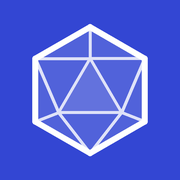
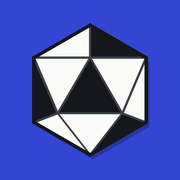
Add files via upload

diff --git a/index.html b/index.html
@@ -55,7 +55,7 @@ h1,h2,h3{font-family:var(--f-ui);margin:0;text-wrap:balance;letter-spacing:-.015
 .mark{font-weight:600;font-size:22px;letter-spacing:-.02em;display:flex;align-items:center;gap:8px}
 .mark b{color:var(--accent);font-weight:600}
 .mark svg{width:22px;height:22px;flex:none}
-.mark svg *{fill:none;stroke:var(--accent);stroke-width:5;stroke-linejoin:round}
+.mark svg{width:24px;height:24px}
 .top .meta{display:flex;align-items:center;gap:8px;flex-wrap:wrap;justify-content:flex-end}
 .langs{display:inline-flex;border:1px solid var(--rule-2);border-radius:7px;overflow:hidden}
 .langs button{background:transparent;border:0;color:var(--ink-3);font-size:12px;font-weight:600;padding:5px 9px;letter-spacing:.03em}
@@ -81,10 +81,13 @@ h1,h2,h3{font-family:var(--f-ui);margin:0;text-wrap:balance;letter-spacing:-.015
 .abil{display:grid;grid-template-columns:repeat(8,1fr);margin-top:18px;border-top:1px solid var(--rule);border-left:1px solid var(--rule)}
 @media (max-width:620px){.abil{grid-template-columns:repeat(4,1fr)}}
 .ab-cell{border-right:1px solid var(--rule);border-bottom:1px solid var(--rule);padding:10px 4px;text-align:center;display:flex;flex-direction:column;align-items:center;gap:2px;position:relative;min-width:0}
-.ab-cell .lbl{font-size:10px;letter-spacing:.05em;max-width:100%;overflow:hidden;text-overflow:ellipsis;white-space:nowrap}
+.ab-cell .lbl{font-size:9.5px;letter-spacing:.01em;max-width:100%;line-height:1.25;white-space:nowrap}
+@media (max-width:420px){.ab-cell .lbl,.pickbtn .lbl{font-size:8.5px;letter-spacing:0}}
+.lshort{display:none}
+@media (max-width:360px){.lfull{display:none}.lshort{display:inline}}
 .ab-v{font-family:var(--f-num);font-weight:500;font-size:24px;line-height:1.1}
 .ab-m{font-family:var(--f-num);font-size:11px;color:var(--ink-3)}
-.gain,.loss{position:absolute;top:6px;right:6px;font-family:var(--f-num);font-size:10.5px;font-weight:600}
+.gain,.loss{font-family:var(--f-num);font-size:11px;font-weight:600;vertical-align:super;margin-left:2px;line-height:0}
 .gain{color:var(--good)} .loss{color:var(--bad)}
 /* fan support */
 .fanbar{margin-top:16px;display:flex;flex-direction:column;gap:6px}
@@ -163,6 +166,13 @@ input[type=text]{flex:1 1 200px;min-width:0;max-width:340px}
 .evbox{border:1px solid var(--rule);border-radius:8px;padding:10px 12px;display:flex;flex-direction:column;gap:3px;background:var(--sunk)}
 .evbox.ok{border-color:var(--good)} .evbox.bad{border-color:var(--bad)}
 .fx{font-size:13px;font-weight:600}
+.picks{display:grid;grid-template-columns:repeat(4,minmax(0,1fr));gap:6px;margin-top:6px}
+.pickbtn{min-width:0;display:flex;flex-direction:column;align-items:center;gap:2px;padding:7px 4px;border:1px solid var(--rule-2);border-radius:8px;background:var(--card);color:var(--ink);font:inherit}
+.pickbtn:hover:not(:disabled){border-color:var(--good)}
+.pickbtn:disabled{opacity:.4;cursor:default}
+.pickbtn .lbl{font-size:9.5px;letter-spacing:.01em;white-space:nowrap;text-align:center}
+.pickbtn b{font-family:var(--f-num);font-weight:500;font-size:12.5px;white-space:nowrap}
+.offer select{width:100%;font-size:15px}
 .fx.up{color:var(--good)} .fx.down{color:var(--bad)} .fx.flat{color:var(--ink-3)}
 .result{animation:reveal .45s ease-out both}
 @keyframes reveal{from{opacity:0;transform:translateY(3px)}to{opacity:1;transform:none}}
@@ -348,19 +358,19 @@ const myPos=()=>S.pos||bestPos(S.attrs);
 function focusKey(){const w=POS[myPos()].w;const top=AK.slice().sort((x,y)=>(w[y]||0)-(w[x]||0)).slice(0,3);return Math.random()<.6?pick(top):pick(AK)}
 /* moments: roll the die + floor(attribute/5) against the target, before the match. The result shapes that match's d20. */
 const EVENTS=[
- {id:'pen',die:10,at:['fin','dec'],tgt:9,ok:{mode:'adv'},bad:{mode:'dis'}},
- {id:'fk',die:12,at:['ski','fin'],tgt:11,ok:{buff:2},bad:{}},
- {id:'oneone',die:8,at:['fin','spd'],tgt:8,ok:{mode:'adv'},bad:{buff:-2}},
- {id:'tackle',die:8,at:['def','spd'],tgt:8,ok:{mode:'adv'},bad:{mode:'dis'}},
- {id:'through',die:10,at:['pas','dec'],tgt:9,ok:{buff:2},bad:{}},
- {id:'counter',die:8,at:['spd','pas'],tgt:8,ok:{buff:2},bad:{buff:-1}},
- {id:'header',die:10,at:['str','fin'],tgt:9,ok:{buff:2},bad:{buff:-2}},
- {id:'derby',die:12,at:['ski','lead'],tgt:11,ok:{mode:'adv'},bad:{mode:'dis'},league:true},
- {id:'training',die:4,at:['str','dec'],tgt:5,ok:{buff:1,grow:1},bad:{}},
- {id:'press',die:8,at:['lead','dec'],tgt:7,ok:{buff:1},bad:{mode:'dis'}},
- {id:'scout',die:8,at:['ski','dec'],tgt:7,ok:{scout:1},bad:{}},
- {id:'night',die:4,at:['dec','lead'],tgt:4,ok:{},bad:{mode:'dis'}},
- {id:'crisis',die:10,at:['lead','dec'],tgt:9,ok:{mode:'adv'},bad:{mode:'dis'}}
+ {id:'pen',die:20,at:['fin','dec'],tgt:11,ok:{mode:'adv'},bad:{mode:'dis'}},
+ {id:'fk',die:20,at:['ski','fin'],tgt:12,ok:{buff:2},bad:{}},
+ {id:'oneone',die:12,at:['fin','spd'],tgt:8,ok:{mode:'adv'},bad:{buff:-2}},
+ {id:'tackle',die:12,at:['def','spd'],tgt:8,ok:{mode:'adv'},bad:{mode:'dis'}},
+ {id:'through',die:10,at:['pas','dec'],tgt:7,ok:{buff:2},bad:{}},
+ {id:'counter',die:10,at:['spd','pas'],tgt:7,ok:{buff:2},bad:{buff:-1}},
+ {id:'header',die:10,at:['str','fin'],tgt:7,ok:{buff:2},bad:{buff:-2}},
+ {id:'derby',die:20,at:['ski','lead'],tgt:12,ok:{mode:'adv'},bad:{mode:'dis'},league:true},
+ {id:'training',die:8,at:['str','dec'],tgt:5,ok:{buff:1,grow:1},bad:{}},
+ {id:'press',die:8,at:['lead','dec'],tgt:6,ok:{buff:1},bad:{mode:'dis'}},
+ {id:'scout',die:12,at:['ski','dec'],tgt:8,ok:{scout:1},bad:{}},
+ {id:'night',die:4,at:['dec','lead'],tgt:3,ok:{},bad:{mode:'dis'}},
+ {id:'crisis',die:12,at:['lead','dec'],tgt:8,ok:{mode:'adv'},bad:{mode:'dis'}}
 ];
 const evB=e=>[Math.floor(S.attrs[e.at[0]]/5),Math.floor(S.attrs[e.at[1]]/10)];
 const evBonus=e=>evB(e)[0]+evB(e)[1];
@@ -375,7 +385,7 @@ en:{
  tag:'A football career in dice',seasonAge:(y,a)=>`Season ${y} · age ${a}`,retired:'Retired',newCareer:'New career',wipe:'Tap again to wipe',
  themeDark:'Dark',themeLight:'Light',installIOS:'Install: tap Share, then Add to Home Screen',installBtn:'Install app',
  tabGame:'Career',tabHof:n=>`Hall of Fame${n?` (${n})`:''}`,
- attrs:{spd:'Speed',fin:'Finishing',ski:'Skills',pas:'Passing',def:'Defending',str:'Physical',dec:'Decisions',lead:'Leadership'},
+ attrs:{spd:'Speed',fin:'Finishing',ski:'Skills',pas:'Passing',def:'Defending',str:'Physical',dec:'Decisions',lead:'Leadership'},attrsS:{spd:'Speed',fin:'Finish.',ski:'Skills',pas:'Passing',def:'Defend.',str:'Physical',dec:'Decis.',lead:'Leader.'},
  unnamed:'Unnamed player',yrs:a=>`${a} yrs`,injured:n=>`Injured · out ${n} match${n>1?'es':''}`,fit:'Fit',rating:'Rating',of20:m=>`of 20 · mod ${m}`,
  div2:'2nd division',
  newRoll:'New career · 8d10',rollPlayer:'Roll your player',pname:'Player name',nat:'Nationality',randName:'Random name',
@@ -388,8 +398,8 @@ en:{
  rollHint:'Tap a die to roll one stat at a time, or roll them all at once.',rerollHint:'One reroll left: tap a single die, or reroll all six.',
  bench:'You’re in the treatment room. The team plays this one without you, rolling d20 + team bonus + 2.',
  chPlayer:'Player',chClub:'Club',chNation:'National team',chFocus:'Focus',dc:'DC',roll:d=>`Roll d${d}`,rollAdv:'Roll 2d20 · keep best',rollDis:'Roll 2d20 · keep worst',sim:'Sim',squad:'squad',
- crit:a=>`Natural 20. +1 ${a} at season’s end.`,nat1:'Natural 1. You’re injured.',
- perfect:(d,a)=>`Perfect ${d}!${a?` +1 ${a} at season’s end.`:''}`,
+ crit:a=>`Natural 20! +1 ${a}.`,critPick:'Natural 20! Pick an attribute to improve right now.',nat1:'Natural 1. You’re injured.',
+ perfect:(d,a)=>`Perfect ${d}! +1 ${a}.`,
  heal:(h,m,lost)=>`Recovery d10 <b class="num">${h}</b>: ${m===0?'shake it off, fit for the next match':`out for ${m} match${m>1?'es':''}`}${lost?'. A bad one: −1 Speed for good':''}.`,
  didnt:'Didn’t play.',line:(ap,g,a)=>`${ap} app${ap===1?'':'s'} · ${g} goal${g===1?'':'s'} · ${a} assist${a===1?'':'s'}`,
  rollHeal:'Roll d10 to heal',recovery:'Recovery',
@@ -405,14 +415,15 @@ en:{
  fx:{adv:'Advantage: 2d20, keep the best',dis:'Disadvantage: 2d20, keep the worst',buff:n=>`${sg(n)} on this match`,none:'No effect on this match'},
  won:'Won',out:'Out',inj:'Inj',upNext:'Up next',through:'Through',
  season:y=>`Season ${y}`,gaApps:(g,a,ap)=>`${g} G · ${a} A · ${ap} apps`,
- review:(y,c)=>`${y} season review · ${c}`,finished:(p,l)=>`Finished ${ord(p)} · ${l}`,
+ review:(y,c)=>`${y} season review · ${c}`,finished:p=>`Finished ${ord(p)}`,
  promoted:l=>`Promoted! Your club goes up to the ${l}.`,relegated:l=>`Relegated. Your club drops to the ${l}.`,
  apps:'Apps',goals:'Goals',assists:'Assists',avgd20:'Avg d20',seasons:'Seasons',trophies:'Trophies',wcs:'World Cups',
  devLead:'Development: ',devBase:['+1 to every attribute for age','no age growth','−1 to every attribute for age','+4 spread across attributes for age'],devSpd:', −1 Speed',
  devBonus:n=>`, plus ${n} bonus point${n>1?'s':''} for your rolls`,devCrit:n=>`, plus ${n} from perfect rolls`,devTrain:n=>`, plus ${n} from extra training`,
  devHot:', and a hot season kept the decline away',devCap:'. Past 33, rolls no longer add growth',devEnd:'. Changes show on the sheet above.',
  window:'Transfer window',eor:'End of the road',nextAge:a=>`Next: age ${a}`,hangUp:'You’re 36. Time to hang up the boots.',sign:'Sign',noOffers:'No offers this window.',
- stay:c=>`Stay at ${c}`,retire:'Retire',scouted:'Scouts watched you this season',
+ stay:c=>`Stay at ${c}`,retire:'Retire',retireSure:'Tap again to confirm retirement',
+ finalT:'Final chapter',homeT:'Back where it started',homeDesc:c=>`Return to ${c} for the last years of your career.`,homeBtn:'Go home',anyT:'Pick your last club',anyDesc:'Your career earned it: any club in the world will take you.',anyBtn:'Sign',nHome:c=>`Back home at ${c}. The fans never forgot you.`,nAny:c=>`A final chapter at ${c}.`,scouted:'Scouts watched you this season',
  over:(a,b)=>`Career over · ${a}–${b}`,peak:p=>`Peak rating ${p}.`,enshrined:'Added to the Hall of Fame.',
  career:'Career',th:['Year','Age','Club','League','Pos','Apps','G','A','Rtg','Trophies','World Cup'],
  wc:'World Cup',calledUp:n=>`Called up by ${n} for the World Cup!`,leftOut:(n,need)=>`Left out of the ${n} World Cup squad. The bar was a ${need} rating.`,
@@ -462,7 +473,7 @@ pt:{
  tag:'Uma carreira no futebol, nos dados',seasonAge:(y,a)=>`Temporada ${y} · ${a} anos`,retired:'Aposentado',newCareer:'Nova carreira',wipe:'Toque de novo para apagar',
  themeDark:'Escuro',themeLight:'Claro',installIOS:'Instalar: toque em Compartilhar e depois em Adicionar à Tela de Início',installBtn:'Instalar app',
  tabGame:'Carreira',tabHof:n=>`Hall da Fama${n?` (${n})`:''}`,
- attrs:{spd:'Velocidade',fin:'Finalização',ski:'Habilidade',pas:'Passe',def:'Defesa',str:'Físico',dec:'Decisões',lead:'Liderança'},
+ attrs:{spd:'Velocidade',fin:'Finalização',ski:'Habilidade',pas:'Passe',def:'Defesa',str:'Físico',dec:'Decisões',lead:'Liderança'},attrsS:{spd:'Veloc.',fin:'Final.',ski:'Habil.',pas:'Passe',def:'Defesa',str:'Físico',dec:'Decisões',lead:'Lider.'},
  unnamed:'Jogador sem nome',yrs:a=>`${a} anos`,injured:n=>`Lesionado · fora por ${n} jogo${n>1?'s':''}`,fit:'Apto',rating:'Nível',of20:m=>`de 20 · mod ${m}`,
  div2:'2ª divisão',
  newRoll:'Nova carreira · 8d10',rollPlayer:'Crie seu jogador',pname:'Nome do jogador',nat:'Nacionalidade',randName:'Nome aleatório',
@@ -475,8 +486,8 @@ pt:{
  rollHint:'Toque em um dado para rolar um atributo por vez, ou role todos de uma vez.',rerollHint:'Resta uma nova rolagem: toque em um dado ou role os seis de novo.',
  bench:'Você está no departamento médico. O time joga sem você, rolando d20 + bônus do time + 2.',
  chPlayer:'Jogador',chClub:'Clube',chNation:'Seleção',chFocus:'Foco',dc:'CD',roll:d=>`Rolar d${d}`,rollAdv:'Rolar 2d20 · fica o maior',rollDis:'Rolar 2d20 · fica o menor',sim:'Simular',squad:'elenco',
- crit:a=>`20 natural! +1 de ${a} no fim da temporada.`,nat1:'1 natural. Você se lesionou.',
- perfect:(d,a)=>`${d} perfeito!${a?` +1 de ${a} no fim da temporada.`:''}`,
+ crit:a=>`20 natural! +1 de ${a}.`,critPick:'20 natural! Escolha um atributo para melhorar agora.',nat1:'1 natural. Você se lesionou.',
+ perfect:(d,a)=>`${d} perfeito! +1 de ${a}.`,
  heal:(h,m,lost)=>`Recuperação d10 <b class="num">${h}</b>: ${m===0?'nada grave, apto para o próximo jogo':`fora por ${m} jogo${m>1?'s':''}`}${lost?'. Lesão séria: −1 de Velocidade para sempre':''}.`,
  didnt:'Não jogou.',line:(ap,g,a)=>`${ap} jogo${ap===1?'':'s'} · ${g} gol${g===1?'':'s'} · ${a} assistência${a===1?'':'s'}`,
  rollHeal:'Rolar d10 para se recuperar',recovery:'Recuperação',
@@ -492,14 +503,15 @@ pt:{
  fx:{adv:'Vantagem: 2d20, fica o maior',dis:'Desvantagem: 2d20, fica o menor',buff:n=>`${sg(n)} neste jogo`,none:'Sem efeito neste jogo'},
  won:'Campeão',out:'Fora',inj:'Les',upNext:'Próxima',through:'Avançou',
  season:y=>`Temporada ${y}`,gaApps:(g,a,ap)=>`${g} G · ${a} A · ${ap} jogos`,
- review:(y,c)=>`Balanço de ${y} · ${c}`,finished:(p,l)=>`${p}º lugar · ${l}`,
+ review:(y,c)=>`Balanço de ${y} · ${c}`,finished:p=>`${p}º lugar`,
  promoted:l=>`Acesso! Seu clube sobe para: ${l}.`,relegated:l=>`Rebaixado. Seu clube cai para: ${l}.`,
  apps:'Jogos',goals:'Gols',assists:'Assist.',avgd20:'Média d20',seasons:'Temporadas',trophies:'Títulos',wcs:'Copas',
  devLead:'Evolução: ',devBase:['+1 em todos os atributos pela idade','sem evolução pela idade','−1 em todos os atributos pela idade','+4 espalhados pelos atributos pela idade'],devSpd:', −1 de Velocidade',
  devBonus:n=>`, mais ${n} ponto${n>1?'s':''} bônus pelas rolagens`,devCrit:n=>`, mais ${n} por rolagens perfeitas`,devTrain:n=>`, mais ${n} do treino extra`,
  devHot:', e a fase iluminada segurou o declínio',devCap:'. Depois dos 33, as rolagens não trazem mais evolução',devEnd:'. As mudanças aparecem na ficha acima.',
  window:'Janela de transferências',eor:'Fim da linha',nextAge:a=>`Próx.: ${a} anos`,hangUp:'Você tem 36 anos. Hora de pendurar as chuteiras.',sign:'Assinar',noOffers:'Nenhuma proposta nesta janela.',
- stay:c=>`Ficar · ${c}`,retire:'Aposentar',scouted:'Olheiros te observaram nesta temporada',
+ stay:c=>`Ficar · ${c}`,retire:'Aposentar',retireSure:'Toque de novo para confirmar a aposentadoria',
+ finalT:'Último capítulo',homeT:'De volta às origens',homeDesc:c=>`Voltar para ${c} nos últimos anos da carreira.`,homeBtn:'Voltar para casa',anyT:'Escolha seu último clube',anyDesc:'Sua carreira permite: qualquer clube do mundo te recebe.',anyBtn:'Assinar',nHome:c=>`De volta para casa: ${c}. A torcida nunca te esqueceu.`,nAny:c=>`Último capítulo: ${c}.`,scouted:'Olheiros te observaram nesta temporada',
  over:(a,b)=>`Fim de carreira · ${a}–${b}`,peak:p=>`Nível máximo ${p}.`,enshrined:'Adicionado ao Hall da Fama.',
  career:'Carreira',th:['Ano','Idade','Clube','Liga','Pos','J','G','A','Nív','Títulos','Copa'],
  wc:'Copa do Mundo',calledUp:n=>`Convocado para a Copa do Mundo! (${n})`,leftOut:(n,need)=>`Fora da convocação para a Copa (${n}). Precisava de nível ${need}.`,
@@ -697,7 +709,7 @@ function resolveEvent(v){
   const bonus=evBonus(e), tgt=evTarget(e), total=v+bonus;
   const perfect=v===e.die, ok=perfect||(v!==1&&total>=tgt);
   let fx={...(ok?e.ok:e.bad)};
-  if(perfect){fx.mode='adv';s.crit.push(e.at[0]);if(st.ev==='training')s.train++}
+  if(perfect){fx.mode='adv';if(S.age<=33)S.attrs[e.at[0]]=Math.min(20,S.attrs[e.at[0]]+1);if(st.ev==='training')s.train++}
   if(fx.grow)s.train+=fx.grow; if(fx.scout)s.scout=1;
   st.evr={nat:v,bonus,tgt,total,ok,perfect}; st.fx={mode:fx.mode||null,buff:fx.buff||0};
 }
@@ -713,7 +725,7 @@ function resolveStage(v1,v2){
     r.raw=r.pm+cm+r.kb+r.buff+r.loy; r.mods=capMods(r.raw); r.hot=s.hot>0?2:0; if(s.hot>0)s.hot--;
     r.total=nat+r.mods+r.hot;
     s.rolls.push(nat);
-    if(nat===20){r.crit=true;s.crit.push(st.key);s.hot=2}
+    if(nat===20){r.crit=true;s.hot=2;if(S.age<=33&&AK.some(k=>S.attrs[k]<20))s.pickAttr=true}
     if(nat===1){r.injury=true;s.injuries++;s.pendingHeal=true;s.inj={d4:null,d10:null}}
   }
   r.dc=dcFor(st);
@@ -736,6 +748,8 @@ function resolveStage(v1,v2){
   S.notes=[];
   s.last=r;
 }
+function pickAttr(k){const s=S.season;if(!s.pickAttr||S.attrs[k]>=20)return;S.attrs[k]++;s.pickAttr=false;if(s.last)s.last.picked=k}
+function autoPick(){const w=POS[myPos()].w,ks=AK.filter(k=>S.attrs[k]<20).sort((a,b)=>(w[b]||0)-(w[a]||0));pickAttr(ks[0]||AK[0])}
 function injD4(v){const s=S.season;s.inj.d4=v;s.inj.adv=v>=3}
 function injD10(a,b){
   const s=S.season, i=s.inj, kept=i.adv?Math.max(a,b):Math.min(a,b);
@@ -850,8 +864,11 @@ function newSeason(club){
   const last=S.history[S.history.length-1], notes=[];
   if(club){
     const from=S.club.name, hadL=S.loyalty||0;
-    let L=0; if(!last.fired)S.hops=(S.hops||0)+1;
-    if(S.hops>=3){L-=2*(S.hops-2);notes.push(['nMerc'])}
+    let L=0; const mode=club.mode;
+    if(!last.fired&&!mode)S.hops=(S.hops||0)+1;
+    if(!mode&&S.hops>=3){L-=2*(S.hops-2);notes.push(['nMerc'])}
+    if(mode==='home'){L=6;S.hops=0;notes.push(['nHome',club.name])}
+    if(mode==='any'){S.hops=0;notes.push(['nAny',club.name])}
     if(isRival(from,club.name)){L-=4+(hadL>=7?3:0);S.rivalMoves=(S.rivalMoves||0)+1;notes.push(['nRival',from,club.name])}
     S.loyalty=L; S.tenure=0; S.legend=null;
     S.club={name:club.name,league:club.league,tier:club.tier};
@@ -873,6 +890,7 @@ function simRest(){
   while(S.phase==='season'&&guard++<300){
     const s=S.season, st=s.stages[s.idx];
     if(s.careerOver){endCareer();break}
+    if(s.pickAttr){autoPick();continue}
     if(s.pendingHeal){if(s.inj.d4==null)injD4(d(4));else injD10(d(10),d(10));continue}
     if(s.last){nextStage();continue}
     if(st.ev&&!st.evr){resolveEvent(d(EVMAP[st.ev].die));continue}
@@ -912,7 +930,7 @@ const d10cls=dieCls(10);
 const healCls=v=>v>=9?'crit':v===1?'fumble':'';
 function attrBars(a,before){
   return `<div class="abil">${AK.map(k=>{const diff=before?a[k]-before[k]:0;
-    return `<div class="ab-cell"><span class="lbl">${t.attrs[k]}</span><span class="ab-v num">${a[k]}</span><span class="ab-m num">${sg(keyBonus(a[k]))}</span>${diff>0?`<span class="gain">+${diff}</span>`:diff<0?`<span class="loss">${diff}</span>`:''}</div>`}).join('')}</div>`;
+    return `<div class="ab-cell"><span class="lbl">${aLbl(k)}</span><span class="ab-v num">${a[k]}${diff>0?`<span class="gain">+${diff}</span>`:diff<0?`<span class="loss">${diff}</span>`:''}</span><span class="ab-m num">${sg(keyBonus(a[k]))}</span></div>`}).join('')}</div>`;
 }
 function fanBar(){
   const L=S.loyalty||0, lv=fanTier(), min=-8, max=24, pos=v=>((clamp(v,min,max)-min)/(max-min)*100).toFixed(1);
@@ -922,6 +940,7 @@ function fanBar(){
     <div class="fb-track"><span class="fb-fill" style="width:${lv===6?100:Math.min(Math.max(3,pos(L)),lv===5?78:100)}%"></span>${ticks}</div>
     <div class="fb-scale"><span style="left:0">${t.fanScale[0]}</span><span style="left:${pos(0)}%">${t.fanScale[1]}</span><span>${t.fanScale[2]}</span></div></div>`;
 }
+const aLbl=k=>`<span class="lfull">${t.attrs[k]}</span><span class="lshort">${t.attrsS[k]}</span>`;
 const leagueLine=Li=>`${LEAGUES[Li].name} · ${lgCountry(Li)}${LEAGUES[Li].div===2?` · ${t.div2}`:''}`;
 function sheet(){
   const r=rating(S.attrs), s=S.season;
@@ -1005,7 +1024,8 @@ function stageCard(){
       else verdict=t.outIn(roundName(st));
       body+=`<div class="sum num">${parts} = <b>${r.total}</b> ${t.vs} ${t.dc} ${r.dc}</div><div class="verdict result v-${r.tone}">${verdict}</div>`;
       body+=r.missed?`<div class="muted small">${t.didnt}</div>`:`<div class="muted small num">${t.line(r.apps,r.goals,r.assists)}</div>`;
-      if(r.crit)body+=`<div class="small" style="color:var(--good)">${t.crit(t.attrs[st.key])}</div>`;
+      if(r.crit&&r.picked)body+=`<div class="small" style="color:var(--good)">${t.crit(t.attrs[r.picked])}</div>`;
+      if(r.crit&&s.pickAttr)body+=`<div class="evbox ok"><span class="fx up">${t.critPick}</span><div class="picks">${AK.map(k=>`<button class="pickbtn" data-act="pick" data-k="${k}" ${S.attrs[k]>=20?'disabled':''}><span class="lbl">${t.attrsS[k]}</span><b class="num">${S.attrs[k]}→${Math.min(20,S.attrs[k]+1)}</b></button>`).join('')}</div></div>`;
       if(r.injury)body+=`<div class="small" style="color:var(--bad)">${t.nat1}</div>`;
       if(I){
         let ib=`<span class="lbl">${t.injT}</span>`;
@@ -1016,12 +1036,13 @@ function stageCard(){
             if(I.lucky)ib+=`<div class="fx up">${t.injLucky}</div>`}}
         body+=`<div class="evbox ${I.career?'bad':I.d10?(I.out===0&&!I.season?'ok':'bad'):''}">${ib}</div>`;
       }
-      if(s.careerOver)act=`<button class="btn danger" data-act="endcareer">${t.endCareer}</button>`;
+      if(s.pickAttr)act='';
+      else if(s.careerOver)act=`<button class="btn danger" data-act="endcareer">${t.endCareer}</button>`;
       else if(s.pendingHeal)act=I&&I.d4==null?`<button class="btn" data-act="inj4">${t.injRoll4}</button>`:`<button class="btn" data-act="inj10">${t.injRoll10}</button>`;
       else{const nx=s.stages.find(x=>!x.res);act=`<button class="btn" data-act="go">${nx?t.goNext(`${compName(nx.comp,S.club.league)} · ${roundShort(nx)}`):t.finish}</button>`}
     }
   }
-  const sim=s.pendingHeal||s.careerOver?'':`<button class="btn ghost sm" data-act="simrest">${t.simRest}</button>`;
+  const sim=s.pendingHeal||s.careerOver||s.pickAttr?'':`<button class="btn ghost sm" data-act="simrest">${t.simRest}</button>`;
   const autoNote=s.out>0&&!s.pendingHeal&&!s.careerOver?`<div class="banner bad">${s.carried&&!s.seasonOut&&s.idx<2?t.stillOut+' ':''}${t.autoPlay}</div>`:'';
   const notes=autoNote+(S.notes||[]).filter(Array.isArray).map(([k,...a])=>`<div class="banner">${typeof t[k]==='function'?t[k](...a.map(esc)):t[k]}</div>`).join('');
   return `<section class="panel hero"><div class="stage">${dice}<div class="stack" style="gap:10px">${notes}${banner}${body}<div class="row">${act}${sim}</div></div></div></section>`;
@@ -1053,7 +1074,7 @@ function offseasonView(){
   const moveLine=h.move==='up'?`<div class="verdict v-good" style="font-size:22px">${t.promoted(LEAGUES[L.up].name)}</div>`:h.move==='down'?`<div class="verdict v-bad" style="font-size:22px">${t.relegated(LEAGUES[L.down].name)}</div>`:'';
   const dev=t.devLead+t.devBase[g.base===1?0:g.base===0.5?3:g.base===0?1:2]+(S.age>=30&&!g.shielded?t.devSpd:'')+(g.G?t.devBonus(g.G):'')+(g.train?t.devTrain(g.train):'')+(g.crits?t.devCrit(g.crits):'')+(g.hot?t.devHot:'')+(g.capped?t.devCap:'')+t.devEnd;
   return `<section class="panel hero stack" style="gap:16px">
-    <div class="stack" style="gap:4px"><span class="lbl">${t.review(h.year,esc(h.club))}</span><h2 style="font-size:30px">${t.finished(h.pos,L.name)}</h2></div>
+    <div class="stack" style="gap:4px"><span class="lbl">${t.review(h.year,esc(h.club))}</span><h2 style="font-size:30px">${t.finished(h.pos)}</h2><span class="muted">${L.name} · ${lgCountry(h.league)}</span></div>
     ${h.fired?`<div class="banner bad">${t.fired(esc(h.club))}</div>`:''}
     ${moveLine}
     ${h.bdo?`<div class="banner" style="font-size:${h.bdo===1?'20px':'15px'}">${h.bdo===1?t.bdoWin:t.bdoRank(h.bdo)}</div>`:''}
@@ -1069,8 +1090,20 @@ function offseasonView(){
     ${h.scout&&!done?`<div class="chip gold" style="align-self:flex-start">${t.scouted}</div>`:''}
     ${done?`<div class="muted">${t.hangUp}</div>`:`${offers?`<div class="offers">${offers}</div>`:`<div class="muted">${h.fired?t.noClub:t.noOffers}</div>`}
     ${h.fired?'':`<div class="row"><button class="btn ghost" data-act="stay">${t.stay(esc(S.club.name))} · ${LEAGUES[after.league].name}</button></div>`}`}
-    ${S.age>=30||done||h.fired?`<div class="row"><button class="btn danger" data-act="retire">${t.retire}</button></div>`:''}
+    ${S.age>=30&&!done?finalChapter():''}
+    ${S.age>=30||done||h.fired?`<div class="row"><button class="btn danger" data-act="retire">${retireArm?t.retireSure:t.retire}</button></div>`:''}
   </section>`;
+}
+const firstClub=()=>S.history.length?{name:S.history[0].club,league:S.history[0].league,tier:S.history[0].tier}:null;
+const greatCareer=()=>S.history.some(h=>h.bdo&&h.bdo<=3)||S.trophies.some(x=>x.kind==='wc');
+function finalChapter(){
+  const f=firstClub(), home=f&&f.name!==S.club.name, any=greatCareer();
+  if(!home&&!any)return'';
+  const groups=LEAGUES.map((L,Li)=>`<optgroup label="${L.name} · ${lgCountry(Li)}">${L.tiers.map((tr,ti)=>tr.clubs.filter(n=>n!==S.club.name).map(n=>`<option value="${Li}|${ti}|${esc(n)}">${esc(n)}</option>`).join('')).join('')}</optgroup>`).join('');
+  return `<div class="stack" style="gap:10px;border-top:1px solid var(--rule);padding-top:14px"><span class="lbl">${t.finalT}</span><div class="offers">
+    ${home?`<div class="offer"><span class="lbl">${t.homeT}</span><h3>${esc(f.name)}</h3><span class="muted small">${t.homeDesc(esc(f.name))}</span><button class="btn" data-act="home">${t.homeBtn}</button></div>`:''}
+    ${any?`<div class="offer top"><span class="lbl">${t.anyT}</span><span class="muted small">${t.anyDesc}</span><select id="anyclub" aria-label="${t.anyT}">${groups}</select><button class="btn" data-act="anyclub">${t.anyBtn}</button></div>`:''}
+  </div></div>`;
 }
 function retiredView(){
   const H=S.history, tot=k=>H.reduce((s,h)=>s+h[k],0);
@@ -1125,7 +1158,7 @@ function render(){
   const lt=`<div class="langs" role="group" aria-label="Language"><button data-act="lang" data-l="en" aria-pressed="${lang==='en'}">EN</button><button data-act="lang" data-l="pt" aria-pressed="${lang==='pt'}">PT-BR</button></div>`;
   const isDark=effTheme()==='dark';
   const themeBtn=`<button class="theme-btn" data-act="theme" aria-label="${isDark?t.themeLight:t.themeDark}">${isDark?'<svg viewBox="0 0 16 16"><circle cx="8" cy="8" r="3"/><path d="M8 1v2M8 13v2M1 8h2M13 8h2M3 3l1.4 1.4M11.6 11.6L13 13M3 13l1.4-1.4M11.6 4.4L13 3"/></svg>':'<svg viewBox="0 0 16 16"><path d="M13.5 10A6 6 0 0 1 6 2.5a6 6 0 1 0 7.5 7.5z"/></svg>'}${isDark?t.themeLight:t.themeDark}</button>`;
-  const header=`<header class="top"><div class="mark"><svg viewBox="0 0 100 100" aria-hidden="true"><polygon points="50,5 91,28 90,73 50,95 11,72 9,28"/><path d="M50,24L76,66L24,66Z M50,5L50,24 M91,28L76,66 M9,28L24,66 M50,95L76,66 M50,95L24,66" stroke-width="3.5"/></svg><span>RP<b>G</b>oal</span></div><div class="meta">${themeBtn}${lt}${S.phase==='create'?`<span class="lbl">${t.tag}</span>`:`<span class="lbl num">${S.phase==='retired'?t.retired:t.seasonAge(S.year,S.age)}</span>${S.phase==='retired'?'':`<button class="btn ghost sm" data-act="reset">${resetArm?t.wipe:t.newCareer}</button>`}`}</div></header>`;
+  const header=`<header class="top"><div class="mark"><svg class="ball" viewBox="0 0 100 100" aria-hidden="true"><polygon points="50.0,26.0 74.0,67.3 26.0,67.3" fill="#15171c" stroke="#3c4048" stroke-width="2" stroke-linejoin="round"/><polygon points="8.4,26.0 50.0,2.0 50.0,26.0" fill="#fafaf7" stroke="#3c4048" stroke-width="2" stroke-linejoin="round"/><polygon points="50.0,2.0 91.6,26.0 50.0,26.0" fill="#15171c" stroke="#3c4048" stroke-width="2" stroke-linejoin="round"/><polygon points="91.6,26.0 74.0,67.3 50.0,26.0" fill="#fafaf7" stroke="#3c4048" stroke-width="2" stroke-linejoin="round"/><polygon points="91.6,26.0 91.6,74.0 74.0,67.3" fill="#fafaf7" stroke="#3c4048" stroke-width="2" stroke-linejoin="round"/><polygon points="91.6,74.0 50.0,98.0 74.0,67.3" fill="#15171c" stroke="#3c4048" stroke-width="2" stroke-linejoin="round"/><polygon points="50.0,98.0 74.0,67.3 26.0,67.3" fill="#fafaf7" stroke="#3c4048" stroke-width="2" stroke-linejoin="round"/><polygon points="50.0,98.0 8.4,74.0 26.0,67.3" fill="#fafaf7" stroke="#3c4048" stroke-width="2" stroke-linejoin="round"/><polygon points="8.4,74.0 8.4,26.0 26.0,67.3" fill="#15171c" stroke="#3c4048" stroke-width="2" stroke-linejoin="round"/><polygon points="8.4,26.0 50.0,26.0 26.0,67.3" fill="#fafaf7" stroke="#3c4048" stroke-width="2" stroke-linejoin="round"/><polygon points="50.0,2.0 91.6,26.0 91.6,74.0 50.0,98.0 8.4,74.0 8.4,26.0" fill="none" stroke="#15171c" stroke-width="4" stroke-linejoin="round"/></svg><span>RP<b>G</b>oal</span></div><div class="meta">${themeBtn}${lt}${S.phase==='create'?`<span class="lbl">${t.tag}</span>`:`<span class="lbl num">${S.phase==='retired'?t.retired:t.seasonAge(S.year,S.age)}</span>${S.phase==='retired'?'':`<button class="btn ghost sm" data-act="reset">${resetArm?t.wipe:t.newCareer}</button>`}`}</div></header>`;
   const tabs=`<nav class="tabs" role="tablist"><button role="tab" data-act="tab" data-v="game" aria-selected="${view==='game'}">${t.tabGame}</button><button role="tab" data-act="tab" data-v="hof" aria-selected="${view==='hof'}">${t.tabHof(n)}</button></nav>`;
   let body='';
   if(view==='hof')body=hofView();
@@ -1138,12 +1171,12 @@ function render(){
 
 /* ---------- dice animation ---------- */
 const app=document.getElementById('app');
-let busy=false, resetArm=false, hofArm=false;
+let busy=false, resetArm=false, hofArm=false, retireArm=false, anims=0;
 function setFace(el,v){const tx=el.querySelector('text');if(tx)tx.textContent=v}
 function rollDice(els,sides,finals,clsFn,done){
   if(!els.length){done();return}
   if(reduce){els.forEach((el,i)=>{setFace(el,finals[i]);const c=clsFn(finals[i]);if(c)el.classList.add(c)});setTimeout(done,150);return}
-  busy=true;
+  busy=true; anims++;
   const D=fastRoll?650:sides===20?1300:1050; fastRoll=false; let left=els.length;
   els.forEach((el,i)=>{
     const delay=i*90, dir=i%2?1:-1;
@@ -1162,7 +1195,7 @@ function rollDice(els,sides,finals,clsFn,done){
         setFace(el,finals[i]);
         const c=clsFn(finals[i]); if(c)el.classList.add(c);
         el.animate([{transform:'scale(1)'},{transform:'scale(1.14)'},{transform:'scale(1)'}],{duration:260,easing:'ease-out'});
-        if(--left===0)setTimeout(()=>{done();setTimeout(()=>{busy=false},450)},520);
+        if(--left===0)setTimeout(()=>{anims--;done();setTimeout(()=>{if(anims<=0){anims=0;busy=false}},450)},520);
         return;
       }
       if(e>=next){let v;do{v=d(sides)}while(v===cur&&sides>1);cur=v;setFace(el,v);const p=Math.max(0,e)/D;next=e+55+320*p*p}
@@ -1178,7 +1211,7 @@ let autoT=null, fastRoll=false;
 function scheduleAuto(){
   clearTimeout(autoT); autoT=null;
   if(view!=='game'||S.phase!=='season'||!S.season)return;
-  const s=S.season; if(s.pendingHeal||s.careerOver||s.out<=0)return;
+  const s=S.season; if(s.pendingHeal||s.careerOver||s.pickAttr||s.out<=0)return;
   const fire=fn=>()=>{if(busy){autoT=setTimeout(fire(fn),200);return}fn()};
   if(!s.last){autoT=setTimeout(fire(()=>{fastRoll=true;doRoll()}),1100);return}
   autoT=setTimeout(fire(()=>{nextStage();commit()}),s.last.injury?3200:1900);
@@ -1196,7 +1229,7 @@ function shuffleName(){
     el.value=randomName(S.nat)},45);
 }
 function doRoll(){
-  const s=S.season; if(!s||s.last||s.pendingHeal)return;
+  const s=S.season; if(!s||s.last||s.pendingHeal||s.pickAttr)return;
   const st=s.stages[s.idx];
   if(st.ev&&!st.evr){
     const e=EVMAP[st.ev], v=d(e.die), el=app.querySelector('[data-die="ev"]');
@@ -1215,6 +1248,7 @@ function onClick(e){
   const act=b.dataset.act;
   if(act!=='theme'&&act!=='lang'){clearTimeout(autoT);autoT=null}
   if(act!=='reset'&&resetArm){resetArm=false}
+  if(act!=='retire'&&retireArm){retireArm=false}
   if(act!=='hofclear'&&hofArm){hofArm=false}
   if(act==='install'){if(installEvt){installEvt.prompt();installEvt.userChoice.finally(()=>{installEvt=null;render()})}return}
   if(act==='theme'){const nt=effTheme()==='dark'?'light':'dark';document.documentElement.dataset.theme=nt;document.querySelectorAll('meta[name="theme-color"]').forEach(m=>m.setAttribute('content',nt==='dark'?'#121317':'#f7f7f5'));try{localStorage.setItem(THEMEKEY,nt)}catch(e){};render();return}
@@ -1234,13 +1268,16 @@ function onClick(e){
   else if(act==='first'){startCareer(S.startOffers[+b.dataset.i]);commit();window.scrollTo({top:0})}
   else if(act==='roll'){doRoll()}
   else if(act==='inj4'){const v=d(4);const el=app.querySelector('.inj4');rollDice(el?[el]:[],4,[v],x=>x>=3?'crit':'fumble',()=>{injD4(v);commit()})}
-  else if(act==='inj10'){const a=d(10),c=d(10);const els=[app.querySelector('.inj100'),app.querySelector('.inj101')].filter(Boolean);rollDice(els,10,[a,c],()=>'',()=>{injD10(a,c);commit()})}
+  else if(act==='inj10'){const a=d(10),c=d(10);const e1=app.querySelector('[data-die="inj100"]'),e2=app.querySelector('[data-die="inj101"]');rollDice(e1?[e1]:[],10,[a],()=>'',()=>{rollDice(e2?[e2]:[],10,[c],()=>'',()=>{injD10(a,c);commit()})})}
   else if(act==='endcareer'){endCareer();commit();window.scrollTo({top:0})}
   else if(act==='go'){nextStage();commit();if(S.phase!=='season')window.scrollTo({top:0,behavior:reduce?'auto':'smooth'})}
   else if(act==='simrest'){simRest();commit();window.scrollTo({top:0,behavior:reduce?'auto':'smooth'})}
   else if(act==='sign'){newSeason(S.offers[+b.dataset.i]);commit();window.scrollTo({top:0})}
   else if(act==='stay'){newSeason(null);commit();window.scrollTo({top:0})}
-  else if(act==='retire'){retire();commit();window.scrollTo({top:0})}
+  else if(act==='pick'){pickAttr(b.dataset.k);commit()}
+  else if(act==='retire'){if(!retireArm){retireArm=true;render();return}retireArm=false;retire();commit();window.scrollTo({top:0})}
+  else if(act==='home'){newSeason({...firstClub(),mode:'home'});commit();window.scrollTo({top:0})}
+  else if(act==='anyclub'){const v=(document.getElementById('anyclub')||{}).value;if(!v)return;const [Li,ti,...n]=v.split('|');newSeason({name:n.join('|'),league:+Li,tier:+ti,mode:'any'});commit();window.scrollTo({top:0})}
   else if(act==='reset'){
     if(S.phase==='create'||S.phase==='retired'||resetArm){resetArm=false;const n=S.nat;S=fresh();S.nat=n;S.name=randomName(n);view='game';commit()}
     else{resetArm=true;render()}

diff --git a/sw.js b/sw.js
@@ -1,5 +1,5 @@
 // RPGoal offline support. Change VERSION whenever you upload new files.
-const VERSION = 'rpgoal-v1';
+const VERSION = 'rpgoal-v3';
 const CORE = ['./', './index.html', './manifest.webmanifest', './favicon.svg',
   './icons/icon-192.png', './icons/icon-512.png', './icons/apple-touch-icon.png'];
 
